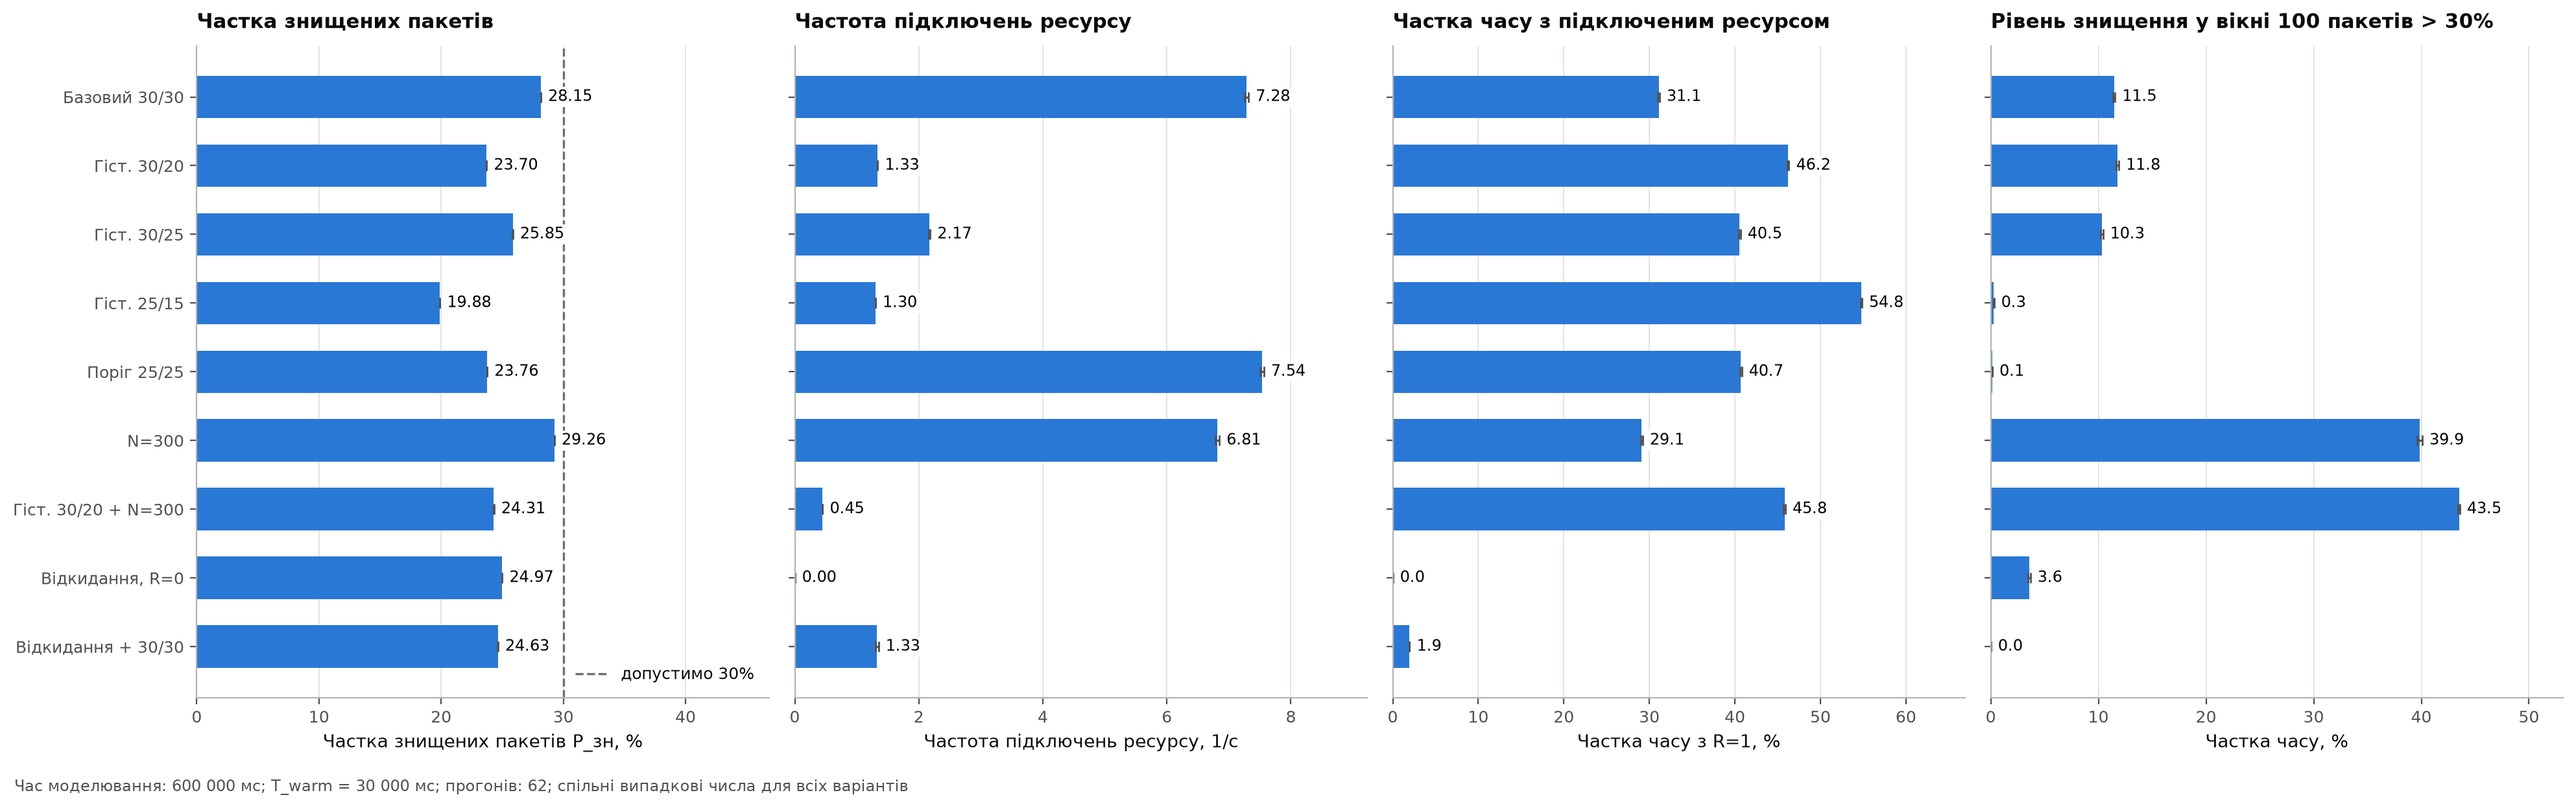
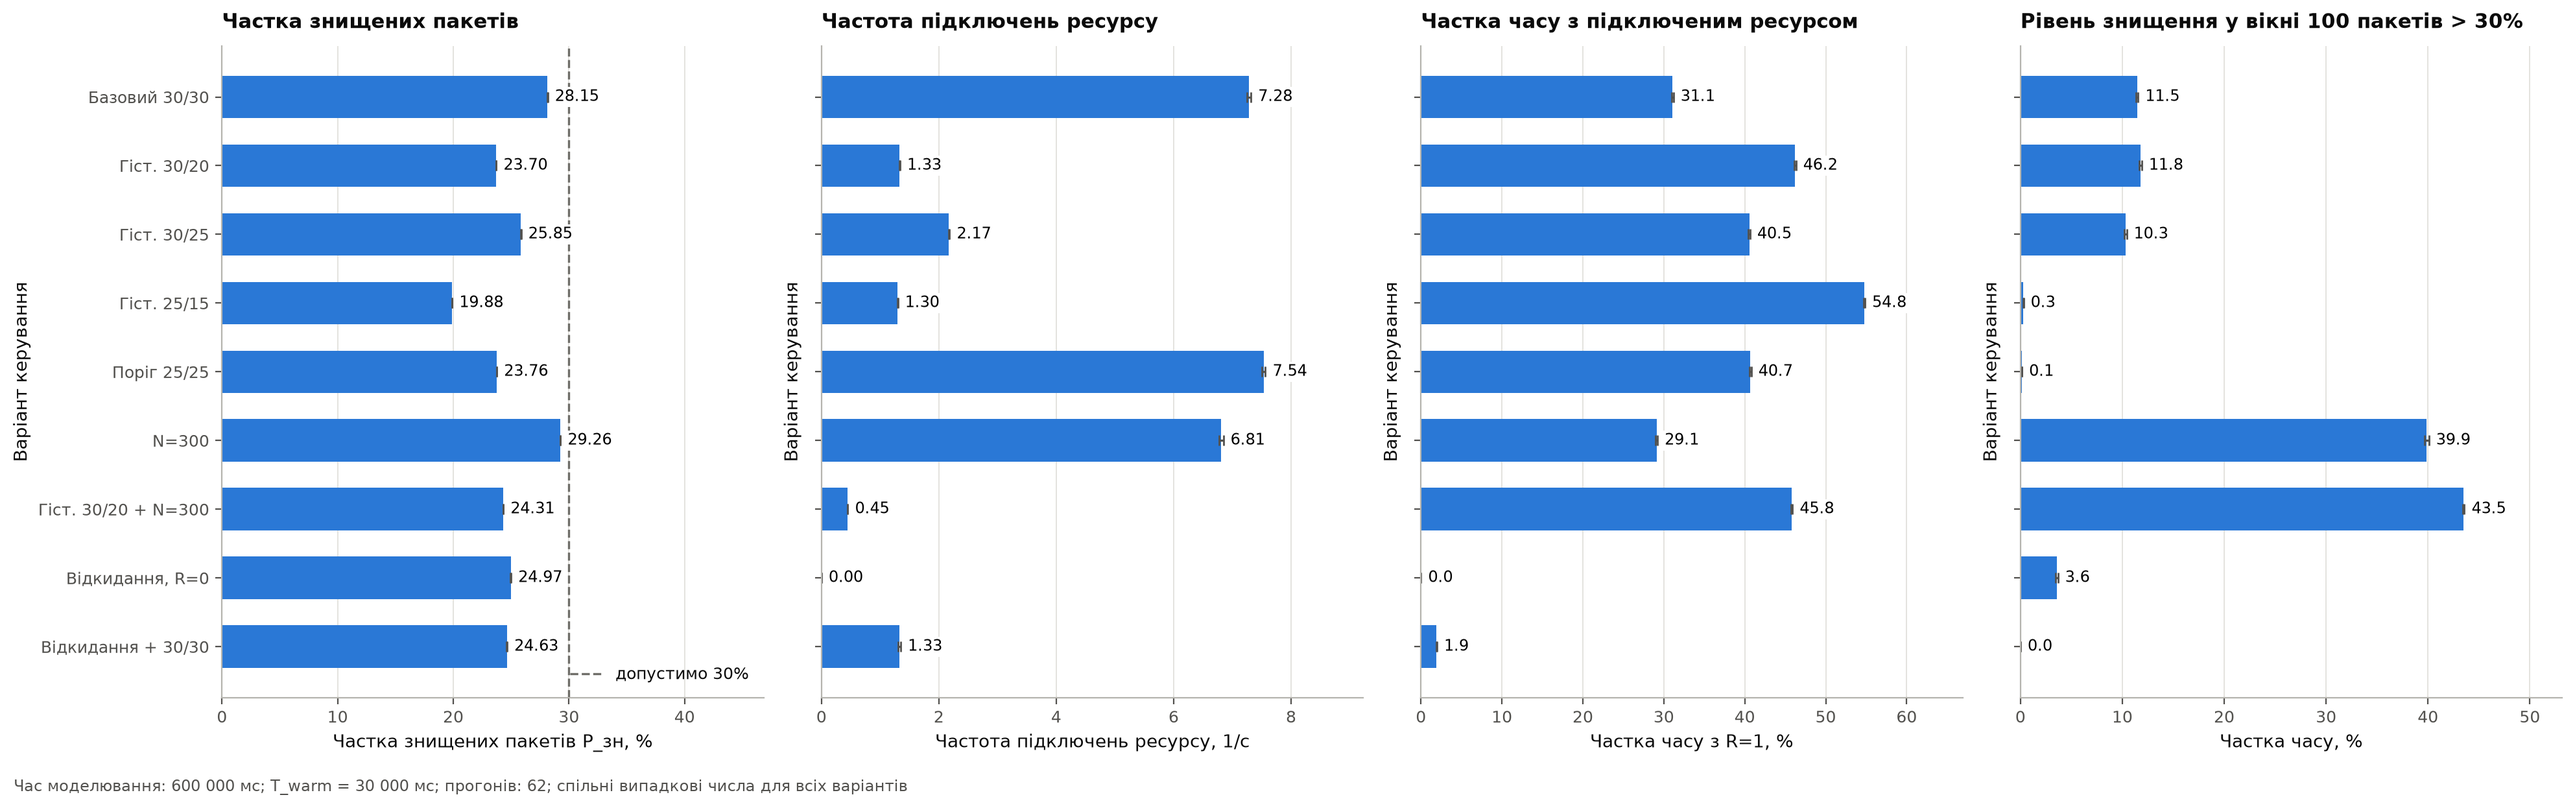
Виправлення за повною перевіркою коду
- proposal_comparison.png: підписано вісь варіантів керування.
- sensitivity_service_law.png: підпис уточнено, потоки випадкових чисел
  незалежні між режимами й спільні для двох законів обслуговування.
- Правило «P_зн ≤ 30% за верхньою межею ДІ» винесено в
  common.meets_destruction_requirement; factors використовує спільну константу.
- Прибрано невикористані started_services_count, Process.discarded_count і
  NodeRecord.service_start_time.
- transient зупиняється зрозумілою помилкою, якщо сталий режим не досягнуто;
  нижня межа гістограми часу перебування враховує найменше значення.

diff --git a/experiments/proposals.py b/experiments/proposals.py
@@ -8,6 +8,7 @@ from experiments.common import (
     base_config_from_run_params,
     confidence_half_width,
     format_p_value,
+    meets_destruction_requirement,
     load_run_params,
     run_replications,
     write_csv,
@@ -93,10 +94,6 @@ def paired_p_value(samples, baseline_samples):
     return float(stats.ttest_rel(samples, baseline_samples).pvalue)
 
 
-def meets_requirement(samples):
-    return samples.mean() + confidence_half_width(samples) <= DESTRUCTION_REQUIREMENT
-
-
 def comparison_row(label, samples, baseline):
     destroyed = samples["destroyed_fraction"]
     activations = samples["activations_per_second"]
@@ -122,7 +119,7 @@ def comparison_row(label, samples, baseline):
         format_p_value(paired_p_value(destroyed, baseline["destroyed_fraction"])),
         format_p_value(paired_p_value(activations, baseline["activations_per_second"])),
         format_p_value(paired_p_value(accelerated, baseline["accelerated_time_fraction"])),
-        "так" if meets_requirement(destroyed) else "ні",
+        "так" if meets_destruction_requirement(destroyed) else "ні",
     ]
 
 
@@ -163,7 +160,7 @@ def plot_horizontal_bars(axis, labels, samples_list, key, scale, x_label, title,
     axis.set_yticks(positions, labels)
     axis.invert_yaxis()
     axis.grid(axis="y", visible=False)
-    label_axes(axis, title, x_label, "")
+    label_axes(axis, title, x_label, "Варіант керування")
     upper = max(mean + half for mean, half in zip(means, halves))
     axis.set_xlim(0, upper * headroom)
     for position, mean, half in zip(positions, means, halves):
@@ -229,7 +226,7 @@ def hysteresis_rows(sweep_samples):
             round(activations.mean(), 3), round(confidence_half_width(activations), 3),
             round(accelerated.mean() * 100, 3), round(confidence_half_width(accelerated) * 100, 3),
             round(violation.mean() * 100, 3), round(confidence_half_width(violation) * 100, 3),
-            "так" if meets_requirement(destroyed) else "ні",
+            "так" if meets_destruction_requirement(destroyed) else "ні",
         ])
     return rows
 
@@ -266,7 +263,7 @@ def dominates(first, second):
 
 
 def pareto_indices(samples_list):
-    feasible = [index for index, samples in enumerate(samples_list) if meets_requirement(samples["destroyed_fraction"])]
+    feasible = [index for index, samples in enumerate(samples_list) if meets_destruction_requirement(samples["destroyed_fraction"])]
     costs = {index: resource_costs(samples_list[index]) for index in feasible}
     return [
         index for index in feasible
@@ -333,7 +330,7 @@ def two_factor_means_rows(samples_by_cell):
         row = [round(off_threshold * 100, 1), window_size]
         for key, _, scale, _ in TWO_FACTOR_RESPONSES:
             row.extend([round(samples[key].mean() * scale, 4), round(confidence_half_width(samples[key]) * scale, 4)])
-        row.append("так" if meets_requirement(samples["destroyed_fraction"]) else "ні")
+        row.append("так" if meets_destruction_requirement(samples["destroyed_fraction"]) else "ні")
         rows.append(row)
     return rows
 

diff --git a/experiments/sensitivity.py b/experiments/sensitivity.py
@@ -6,6 +6,7 @@ from experiments.common import (
     DESTRUCTION_REQUIREMENT,
     MODE_LABELS,
     base_config_from_run_params,
+    meets_destruction_requirement,
     confidence_half_width,
     load_run_params,
     run_replications,
@@ -60,9 +61,7 @@ def build_rows(samples):
             for key, _, _ in RESPONSES:
                 values = samples[(law, mode)][key]
                 row.extend([float(values.mean()), confidence_half_width(values)])
-            row.append("так" if samples[(law, mode)]["destroyed_fraction"].mean()
-                       + confidence_half_width(samples[(law, mode)]["destroyed_fraction"])
-                       <= DESTRUCTION_REQUIREMENT else "ні")
+            row.append("так" if meets_destruction_requirement(samples[(law, mode)]["destroyed_fraction"]) else "ні")
             rows.append(row)
     return rows
 
@@ -77,7 +76,8 @@ def header():
 def plot_sensitivity(samples, params):
     caption = simulation_caption(
         params["simulation_time_ms"], params["warmup_time_ms"], params["replications"],
-        "стовпчики: середнє та 95% ДІ; незалежні потоки випадкових чисел",
+        "стовпчики: середнє та 95% ДІ; незалежні потоки випадкових чисел для режимів керування, "
+        "спільні для двох законів обслуговування",
     )
     figure, axes = create_figure(caption, rows=1, columns=2, width=12.0, height=4.8)
     positions = np.arange(len(CONTROL_MODES))

diff --git a/experiments/factors.py b/experiments/factors.py
@@ -5,6 +5,7 @@ import numpy as np
 from scipy import stats
 
 from experiments.common import (
+    DESTRUCTION_REQUIREMENT,
     base_config_from_run_params,
     load_run_params,
     run_replications,
@@ -25,7 +26,6 @@ from experiments.plotting import (
     use_percent_axis,
 )
 
-REQUIREMENT_DESTROYED_FRACTION = 0.30
 MAX_POLYNOMIAL_DEGREE = 4
 SIGNIFICANCE_LEVEL = 0.05
 MIN_CORRELATION_INDEX = 0.7
@@ -299,7 +299,7 @@ def run_interval_factor(params, replications):
         label_axes(axis, RESPONSE_LABELS[key], INTERVAL_FACTOR_LABEL, RESPONSE_AXIS_LABELS[key])
         apply_fraction_axis(axis, key)
         if key == "destroyed_fraction":
-            add_horizontal_reference(axis, REQUIREMENT_DESTROYED_FRACTION, "Вимога: 30%")
+            add_horizontal_reference(axis, DESTRUCTION_REQUIREMENT, "Вимога: 30%")
             add_legend(axis, "upper right")
     figure.tight_layout()
     save_figure(figure, "factor_interval.png")
@@ -356,7 +356,7 @@ def run_threshold_factor(params, replications):
         apply_fraction_axis(axis, key)
     destroyed_axis = axes[0]
     plot_line(destroyed_axis, THRESHOLDS, THRESHOLDS, "y = θ", 1, markers=False, linewidth=1.4)
-    add_horizontal_reference(destroyed_axis, REQUIREMENT_DESTROYED_FRACTION, "Вимога 0.30")
+    add_horizontal_reference(destroyed_axis, DESTRUCTION_REQUIREMENT, "Вимога 0.30")
     add_legend(destroyed_axis, "upper left")
     figure.tight_layout()
     save_figure(figure, "factor_threshold.png")

diff --git a/simulation/process.py b/simulation/process.py
@@ -15,8 +15,6 @@ class Process(Element):
         self.early_discard = early_discard
         self.queue = deque()
         self.current_packet = None
-        self.started_services_count = 0
-        self.discarded_count = 0
         self.queue_length_integral = 0.0
         self.busy_time = 0.0
         self.max_queue_length = 0
@@ -79,14 +77,11 @@ class Process(Element):
         record = packet.node_record(self.name)
         self.leave_queue(record)
         if self.early_discard is not None and self.early_discard.is_doomed(packet, self.current_time, duration):
-            self.discarded_count += 1
             self.early_discard.discard(packet)
             return
-        record.service_start_time = self.current_time
         record.accelerated = accelerated
         self.current_packet = packet
         self.next_time = self.current_time + duration
-        self.started_services_count += 1
 
     def leave_queue(self, record):
         record.queue_exit_time = self.current_time
@@ -99,8 +94,6 @@ class Process(Element):
             self.busy_time += delta
 
     def reset_statistics(self):
-        self.started_services_count = 0
-        self.discarded_count = 0
         self.queue_length_integral = 0.0
         self.busy_time = 0.0
         self.max_queue_length = self.queue_length

diff --git a/experiments/run_base.py b/experiments/run_base.py
@@ -1,3 +1,4 @@
+import math
 import time
 
 import numpy as np
@@ -201,7 +202,10 @@ def plot_sojourn_histogram(sojourn_by_mode, params, tolerance):
                                  f"T = 10 мс рівно — доставлені пакети")
     figure, axes = create_figure(caption, rows=1, columns=2, width=11.0, height=4.8, sharex=True)
     upper_edge = max(samples.max() for samples, _ in sojourn_by_mode.values())
-    edges = np.arange(HISTOGRAM_LOWER_EDGE_MS, upper_edge + 2 * HISTOGRAM_BIN_WIDTH_MS, HISTOGRAM_BIN_WIDTH_MS)
+    shortest_sojourn = min(samples.min() for samples, _ in sojourn_by_mode.values())
+    lower_edge = min(HISTOGRAM_LOWER_EDGE_MS,
+                     math.floor((shortest_sojourn - tolerance) / HISTOGRAM_BIN_WIDTH_MS) * HISTOGRAM_BIN_WIDTH_MS)
+    edges = np.arange(lower_edge, upper_edge + 2 * HISTOGRAM_BIN_WIDTH_MS, HISTOGRAM_BIN_WIDTH_MS)
     shares = {mode: right_closed_bin_shares(samples, edges, tolerance) for mode, (samples, _) in sojourn_by_mode.items()}
     y_limit = max(share.max() for share in shares.values()) * 1.15
     destroyed_bins = edges[:-1] >= DESTRUCTION_THRESHOLD_MS

diff --git a/experiments/transient.py b/experiments/transient.py
@@ -236,6 +236,9 @@ def main():
     analyses = analyses_by_scenario["base"]
     limits = {scenario_key: scenario_limits(analyses_by_scenario[scenario_key]) for scenario_key, _, _ in SCENARIOS}
     criterion_time, detected_warmup = limits["base"]
+    if math.isinf(criterion_time) or math.isinf(detected_warmup):
+        raise RuntimeError("Базовий сценарій не досяг сталого режиму на пробному горизонті: "
+                           "збільште горизонт пробних прогонів або оберіть інший відгук (посібник, с. 80)")
     warmup_time = round_up(max(detected_warmup, TRACE_INTERVAL_MS) * WARMUP_SAFETY_FACTOR, WARMUP_ROUNDING_MS)
     simulation_time = round_up(criterion_time, SIMULATION_TIME_ROUNDING_MS)
 

diff --git a/experiments/common.py b/experiments/common.py
@@ -23,6 +23,11 @@ MODE_LABELS = {
 }
 
 
+def meets_destruction_requirement(destroyed_fraction_samples):
+    upper_bound = destroyed_fraction_samples.mean() + confidence_half_width(destroyed_fraction_samples)
+    return upper_bound <= DESTRUCTION_REQUIREMENT
+
+
 def format_p_value(p_value):
     if p_value < SMALLEST_REPORTED_P_VALUE:
         return f"< {SMALLEST_REPORTED_P_VALUE:g}"

diff --git a/simulation/packet.py b/simulation/packet.py
@@ -6,7 +6,6 @@ class NodeRecord:
     node_name: str
     arrival_time: float
     queue_exit_time: float | None = None
-    service_start_time: float | None = None
     accelerated: bool | None = None
 
     @property
